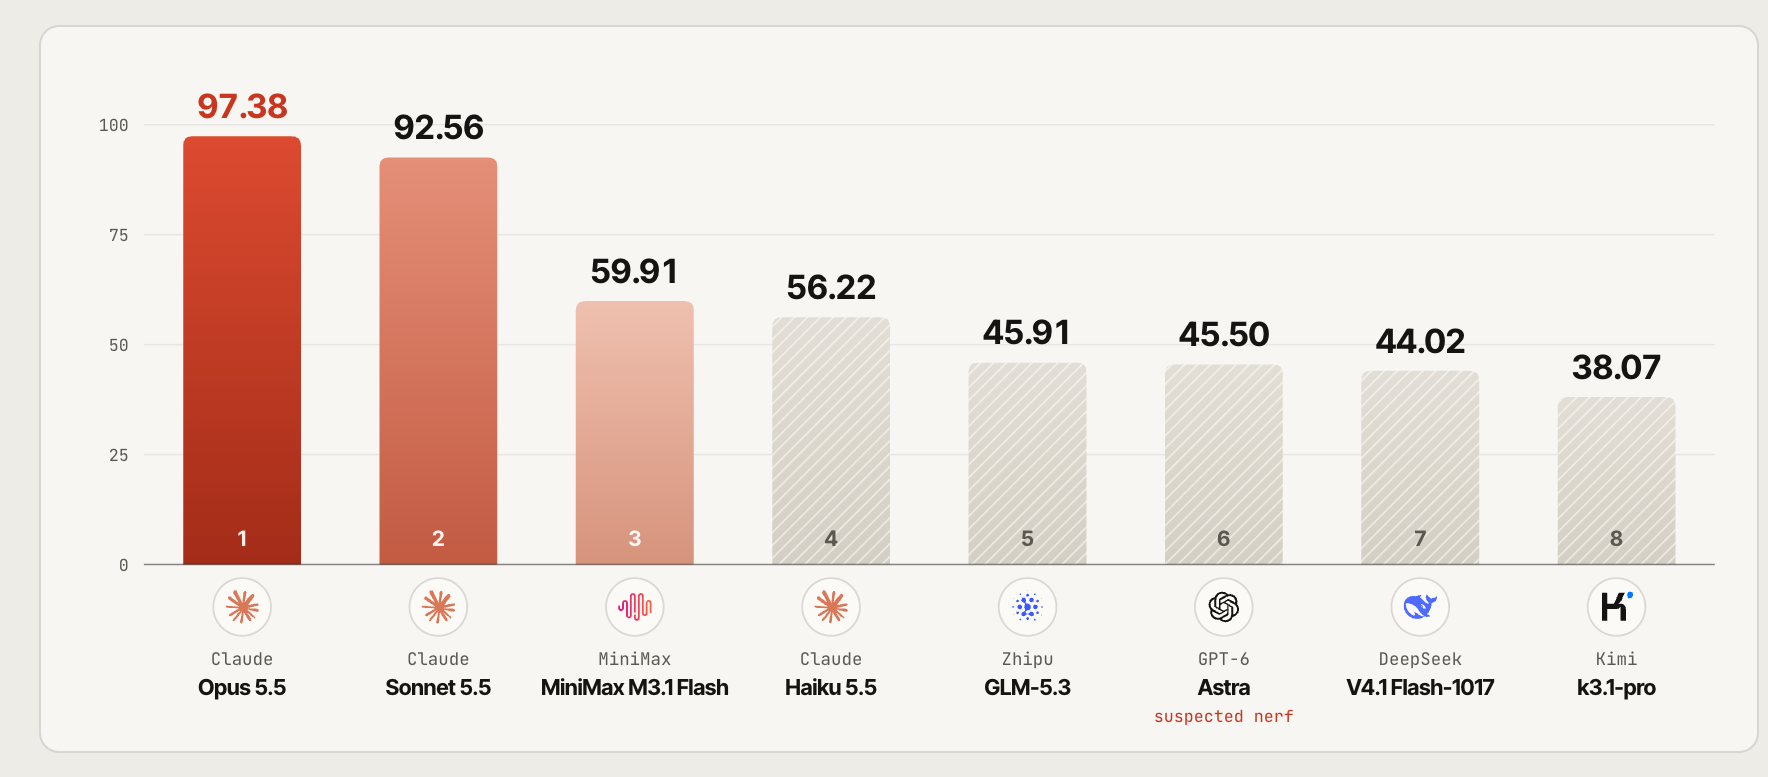
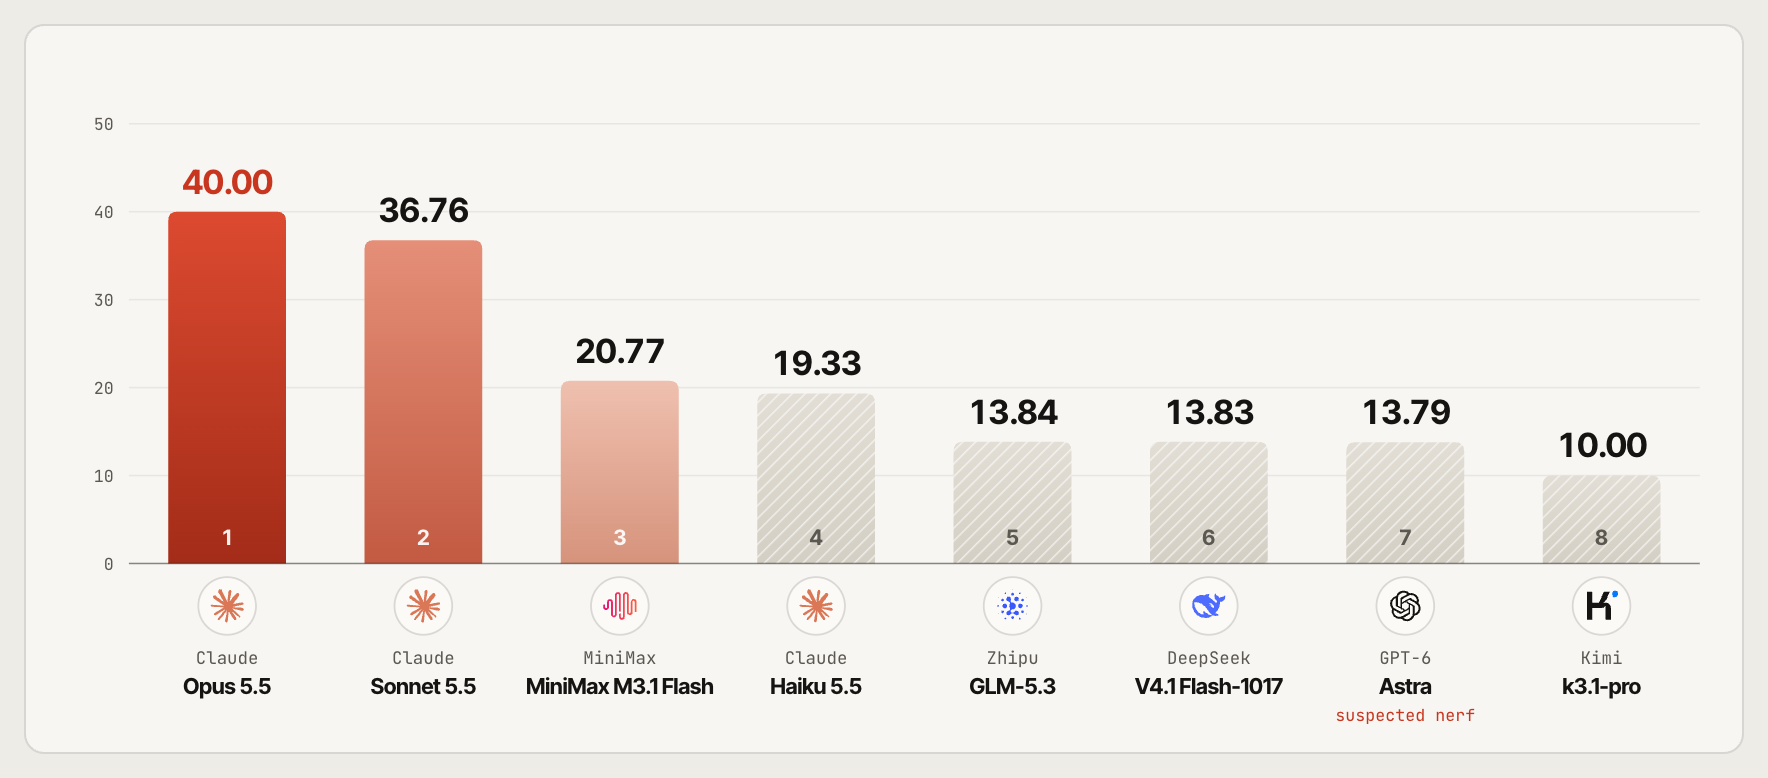
README: ECI leaderboard scores, links to the GitHub Pages leaderboard
The overall score is now an ECI-style fit (Epoch Capabilities Index) of the
eight per-task ln(speedup) / ln(best) values, anchored at Claude Opus 5.5 = 40
and Kimi k3.1-pro = 10, as on the leaderboard and in the blog. The two
leaderboard images are re-shot from the blog; the Score bullet and the
Overall score section of docs/eval-protocol.md describe the fit. The
leaderboard badge and link now go to ai4ai-for-anything.github.io instead of
r.yeyeah.life.

diff --git a/docs/eval-protocol.md b/docs/eval-protocol.md
@@ -28,7 +28,7 @@ decides as for any other N1 candidate. Each task's instruction states which prec
 
 ## Overall score
 
-For the preview leaderboard, each task's accepted speedup is normalized as `ln(speedup) / ln(best speedup on that task)`. The Overall score is the mean of the eight normalized values, multiplied by 100. The table displays rounded speedups; normalization uses the underlying measurements. This relative score depends on the best result in the leaderboard and is distinct from the verifier's `accepted` / `speedup` reward.
+For the preview leaderboard, each task's accepted speedup is normalized as `ln(speedup) / ln(best speedup on that task)`: 0 for no speedup, 1 for the best result on that task. The Overall score fits all 64 normalized values the way the [Epoch Capabilities Index](https://epoch.ai/data/eci-documentation) (ECI) does: each model has one capability `C`, each task a difficulty `D` and a slope `α`, and a normalized value is modelled as `sigmoid(α · (C − D))`, fitted by least squares with an L2 penalty (λ = 0.1). The capabilities are then mapped linearly so that Claude Opus 5.5 = 40 and Kimi k3.1-pro = 10; a task's difficulty sits on the same scale. Unlike a plain mean, the fit weights each task by how well it separates models of similar capability. The table displays rounded speedups; normalization uses the underlying measurements. This relative score depends on the other results in the leaderboard and is distinct from the verifier's `accepted` / `speedup` reward.
 
 <img src="assets/readme/trial-en.png" alt="A trial in three stages: the startup preparation measures the unchanged reference on the trial's GPUs; the agent profiles, edits, times and checks inside one container until its hidden deadline; the verifier runs the judge's full check with the network off and turns a PASS into the reward" width="100%">
 

diff --git a/README.md b/README.md
@@ -11,7 +11,7 @@
 </p>
 
 <p>
-<a href="https://r.yeyeah.life/rbb-timeline/"><img alt="Leaderboard" src="https://img.shields.io/badge/leaderboard-live-8C0000?style=flat-square"></a>
+<a href="https://ai4ai-for-anything.github.io/blog/rsi-infra-bench/leaderboard/index.html"><img alt="Leaderboard" src="https://img.shields.io/badge/leaderboard-live-8C0000?style=flat-square"></a>
 <a href="docs/eval-protocol.md"><img alt="Eight tasks" src="https://img.shields.io/badge/tasks-8-0891B2?style=flat-square"></a>
 <a href="https://pypi.org/project/harbor/0.24.0/"><img alt="Harbor 0.24" src="https://img.shields.io/badge/Harbor-0.24.0-7C3AED?style=flat-square"></a>
 <a href="docs/how-to-run.md#hardware"><img alt="Hopper GPUs" src="https://img.shields.io/badge/GPUs-Hopper%20%E2%89%A5130%20GiB-2A78D6?style=flat-square"></a>
@@ -36,7 +36,7 @@
 ![Per-Task](docs/assets/readme/leaderboard-table.png)
 
 Final judged speedups against each task’s baseline.
-[Interactive leaderboard and run traces →](https://r.yeyeah.life/rbb-timeline/)
+[Interactive leaderboard and run traces →](https://ai4ai-for-anything.github.io/blog/rsi-infra-bench/leaderboard/index.html)
 
 <sub>\* GPT-6 Astra: suspected nerf; it feels different from our early testing.</sub>
 
@@ -49,8 +49,8 @@ A frozen judge verifies correctness and measures the final speedup.
   depending on the task.
 - **Timing:** startup and warmup are excluded; the judge measures
   the task’s fixed workload.
-- **Score:** average normalized log-speedup across eight tasks,
-  scaled to 100.
+- **Score:** an ECI-style fit of the eight normalized log-speedups,
+  anchored at Claude Opus 5.5 = 40 and Kimi k3.1-pro = 10.
 
 [Tasks, numerical checks and scoring details →](docs/eval-protocol.md)
 
